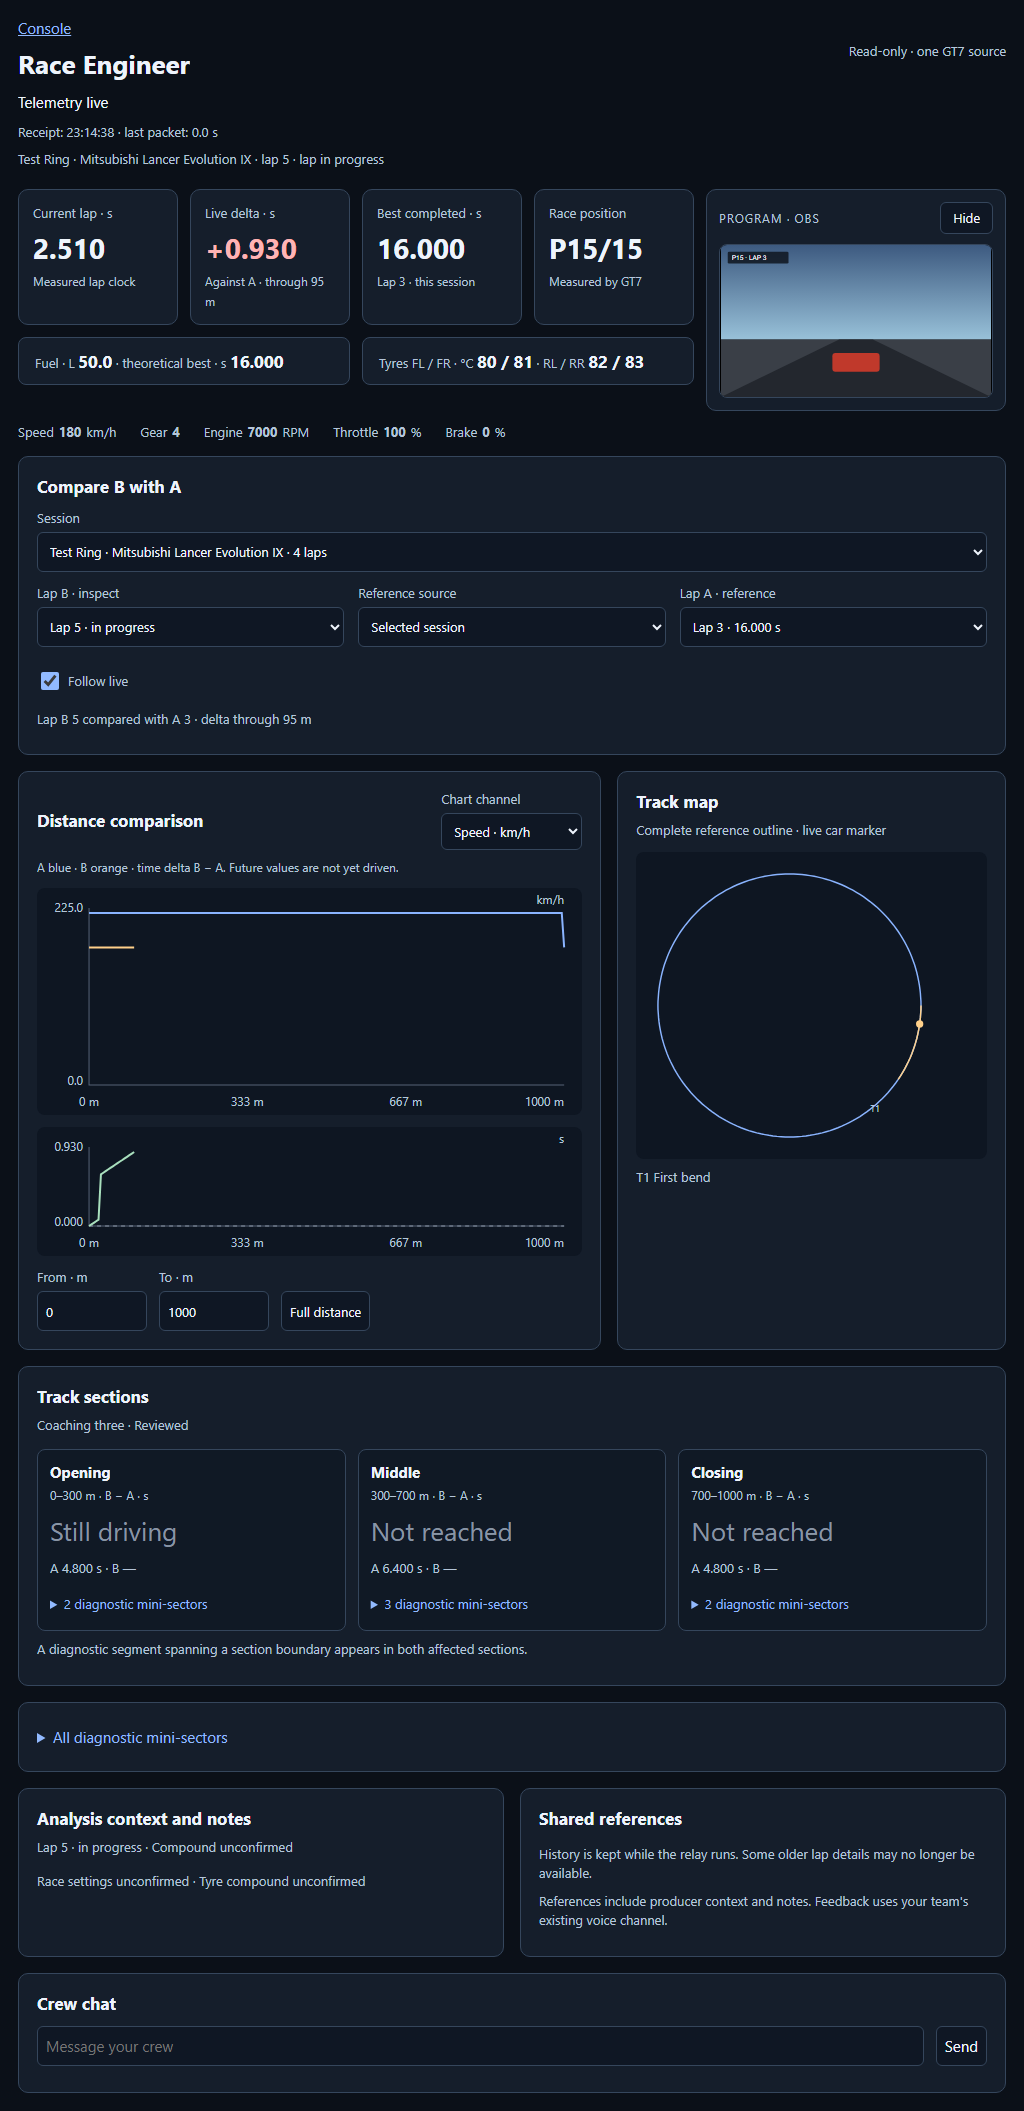
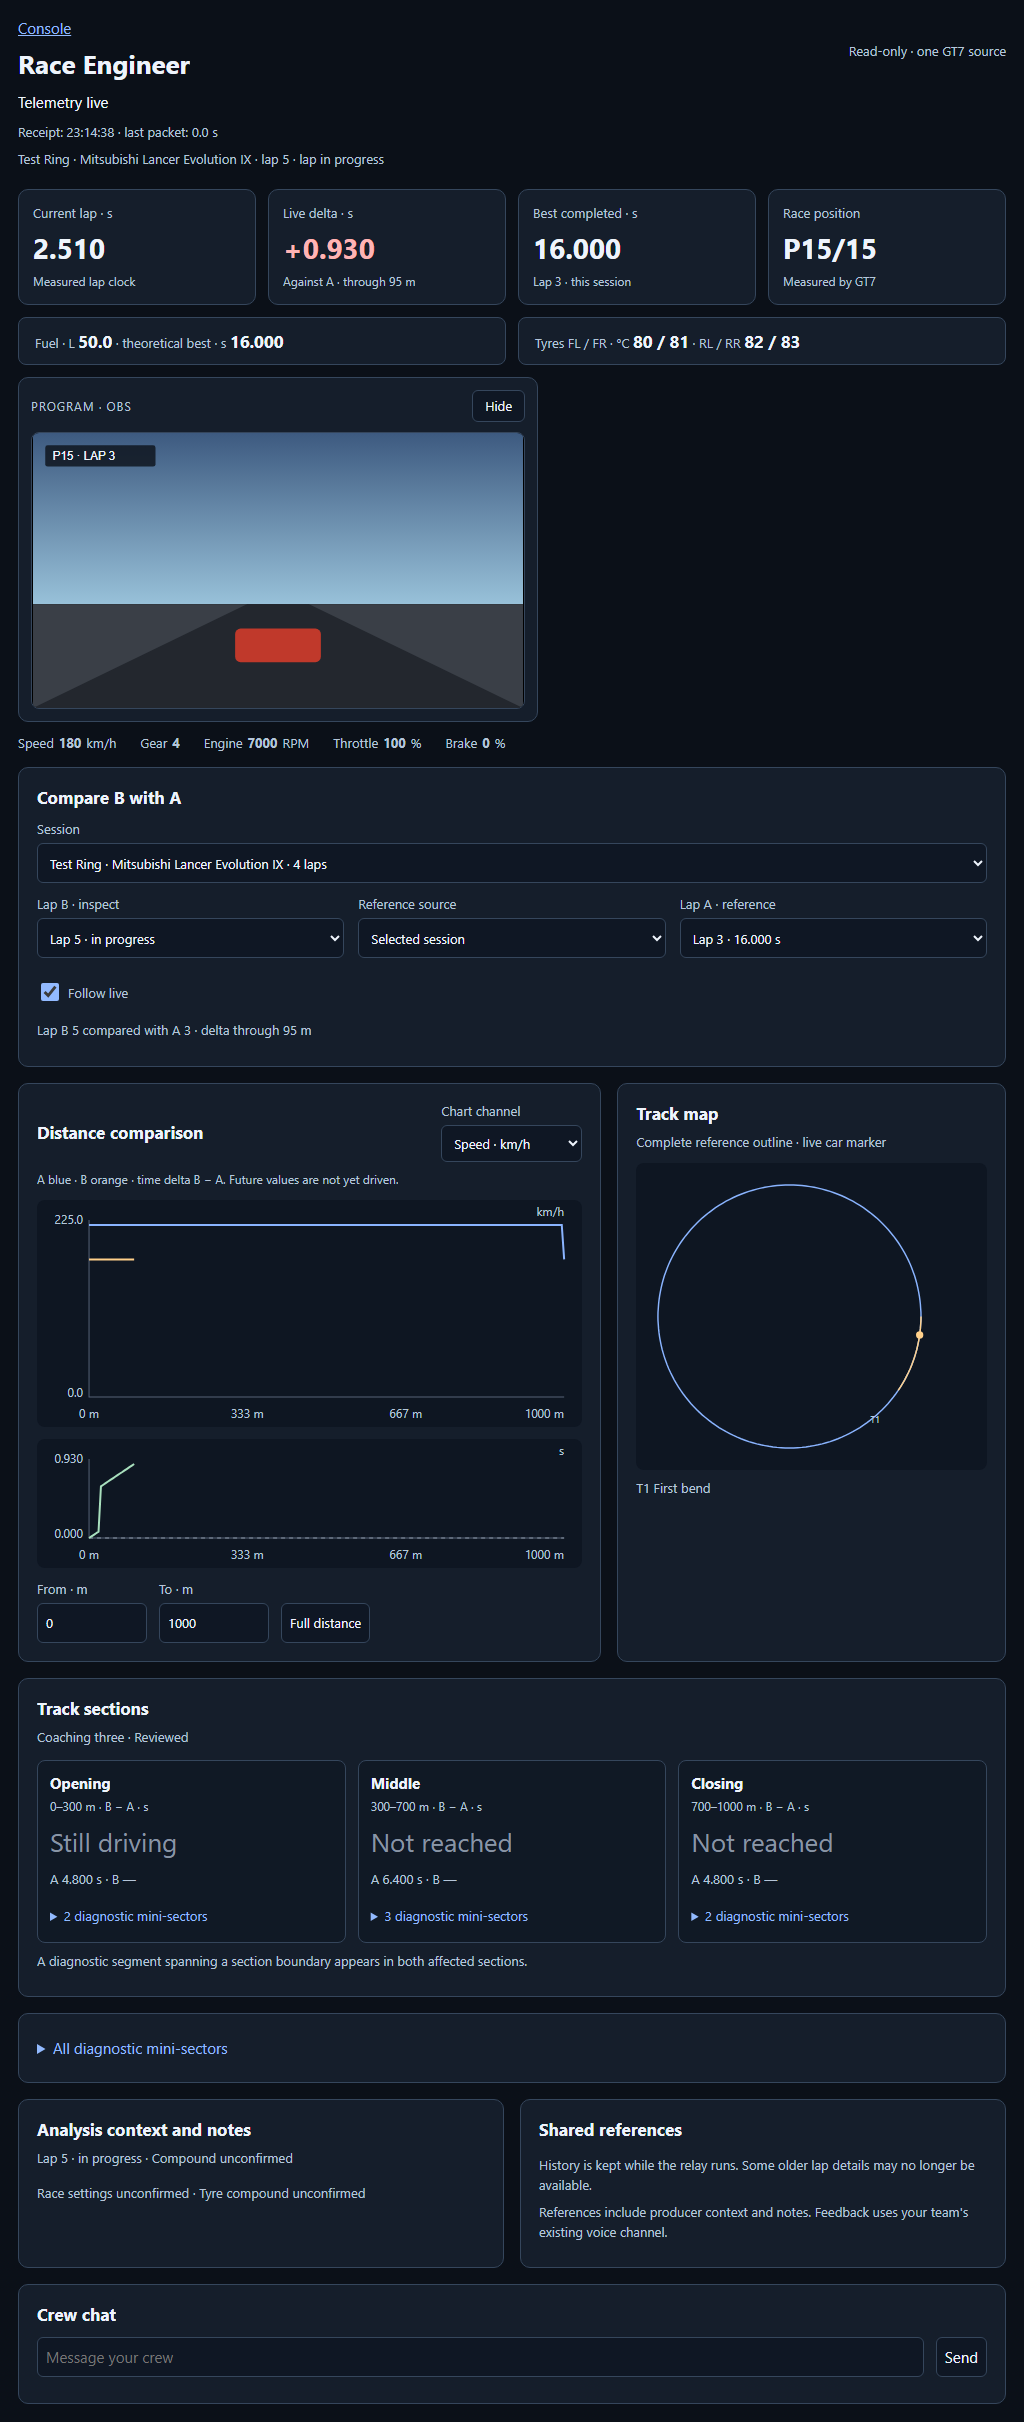
fix(console): stack the Engineer program still below the instruments under 1100 px
Beside the headline at 1024 px the four tiles shrank to ~160 px, and with
the Linux runner's font metrics a label wrapped and broke the one-row
headline. Narrower screens now stack the still below, width-capped.

diff --git a/src/console/race-engineer.html b/src/console/race-engineer.html
@@ -5,7 +5,7 @@
 @media(max-width:1100px){main{padding:18px}.tile{padding:14px}.tile strong{font-size:28px}.compare{grid-template-columns:1fr 1fr 1fr}.check{grid-column:1/-1}.plots{grid-template-columns:1.5fr 1fr}.plot-head{flex-wrap:wrap}.section{padding:12px}}
 @media(max-width:600px){main{padding:12px}header{align-items:start;flex-wrap:wrap;gap:8px}h1{font-size:23px}.headline{grid-template-columns:1fr 1fr;gap:8px;margin-top:14px}.headline .tile>span{min-height:2.4em;line-height:1.2}.tile strong{font-size:28px}.tile{padding:12px}.support{grid-template-columns:1fr;gap:8px}.inputs{gap:12px;font-size:12px}.card{padding:12px}.compare{grid-template-columns:1fr;gap:10px}.check{grid-column:auto}.plots,.context{grid-template-columns:1fr}.section-row{grid-template-columns:1fr}.plot-head{flex-wrap:nowrap}.plot-head select{max-width:135px}.section details{margin-top:8px}summary{padding:14px 0;min-height:44px}.check{min-height:44px}.zoom label{width:82px}.zoom{gap:8px}.zoom button{flex:1;padding:6px}.chat{flex-wrap:wrap}.chat input{width:100%}}
 
-[hidden]{display:none!important}.dim{opacity:.6}.value strong{font-variant-numeric:tabular-nums}.not-driven{color:#8995a5;font-weight:400}.support strong{font-size:17px}.scroll{overflow-x:auto}.source-row{margin:12px 0}.source-row select{width:100%}#notice:empty,#new-laps:empty,#larger-sectors:empty{display:none}.live-grid{display:grid;grid-template-columns:minmax(0,1fr) minmax(280px,380px);gap:12px;margin-top:20px;align-items:start}.live-grid:has(.program-card.off){grid-template-columns:minmax(0,1fr) auto}.live-grid .headline{margin-top:0}.program-card{padding:12px}.program-head{display:flex;justify-content:space-between;align-items:center;gap:10px}.tile .program-head span{font-size:12px;letter-spacing:.08em;text-transform:uppercase}.program-head button{min-height:32px;padding:4px 12px;font-size:13px}.program-frame{position:relative;margin-top:10px;aspect-ratio:16/9;background:#000;border:1px solid var(--edge);border-radius:8px;overflow:hidden;display:flex;align-items:center;justify-content:center}.program-frame img{width:100%;height:100%;object-fit:contain;display:none}.program-frame.loaded img{display:block}.tile .program-frame span{font-size:12px}.program-frame.loaded span{display:none}.program-card.off .program-frame{display:none}@media(max-width:1100px){.live-grid{grid-template-columns:minmax(0,1fr) minmax(220px,300px)}}@media(max-width:600px){.live-grid,.live-grid:has(.program-card.off){grid-template-columns:1fr;margin-top:14px}}#notes{padding-left:18px}#references{padding-left:18px}#chatlog{max-height:240px;overflow-y:auto}.inputs .value{display:flex;gap:5px;align-items:center}.mini-details{margin-top:16px}.section table{font-size:12px}.section header{display:block}.section h3{font-size:15px;margin:0}.section .section-delta{display:block;font-size:26px;margin:10px 0}.section small{font-size:12px;color:var(--muted)}
+[hidden]{display:none!important}.dim{opacity:.6}.value strong{font-variant-numeric:tabular-nums}.not-driven{color:#8995a5;font-weight:400}.support strong{font-size:17px}.scroll{overflow-x:auto}.source-row{margin:12px 0}.source-row select{width:100%}#notice:empty,#new-laps:empty,#larger-sectors:empty{display:none}.live-grid{display:grid;grid-template-columns:minmax(0,1fr) minmax(280px,380px);gap:12px;margin-top:20px;align-items:start}.live-grid:has(.program-card.off){grid-template-columns:minmax(0,1fr) auto}.live-grid .headline{margin-top:0}.program-card{padding:12px}.program-head{display:flex;justify-content:space-between;align-items:center;gap:10px}.tile .program-head span{font-size:12px;letter-spacing:.08em;text-transform:uppercase}.program-head button{min-height:32px;padding:4px 12px;font-size:13px}.program-frame{position:relative;margin-top:10px;aspect-ratio:16/9;background:#000;border:1px solid var(--edge);border-radius:8px;overflow:hidden;display:flex;align-items:center;justify-content:center}.program-frame img{width:100%;height:100%;object-fit:contain;display:none}.program-frame.loaded img{display:block}.tile .program-frame span{font-size:12px}.program-frame.loaded span{display:none}.program-card.off .program-frame{display:none}@media(max-width:1100px){.live-grid,.live-grid:has(.program-card.off){grid-template-columns:minmax(0,1fr)}.program-card{max-width:520px}}@media(max-width:600px){.live-grid{margin-top:14px}.program-card{max-width:none}}#notes{padding-left:18px}#references{padding-left:18px}#chatlog{max-height:240px;overflow-y:auto}.inputs .value{display:flex;gap:5px;align-items:center}.mini-details{margin-top:16px}.section table{font-size:12px}.section header{display:block}.section h3{font-size:15px;margin:0}.section .section-delta{display:block;font-size:26px;margin:10px 0}.section small{font-size:12px;color:var(--muted)}
 </style><script>window.RC_API_BASE="__RC_API_BASE__";window.RC_API=p=>(window.RC_API_BASE||'')+p;if(location.search)history.replaceState({},'',location.pathname);</script></head><body><main>
 <header><div><a href="/console">Console</a><h1>Race Engineer</h1></div><span class="sub">Read-only · one GT7 source</span></header>
 <p id="status" role="status">Checking access…</p><p id="receipt" class="sub">Waiting for measured telemetry</p><p id="notice" role="status"></p>

diff --git a/tools/e2e-engineer-layout.py b/tools/e2e-engineer-layout.py
@@ -71,6 +71,10 @@ async def main():
                     if width==390:
                         await page.locator('#best').evaluate('(el)=>{el.previousElementSibling.replaceChildren(document.createTextNode("Best"),document.createElement("br"),document.createTextNode("completed · s"));}')
                     positions=await page.evaluate('() => ["lap-time","delta","best","race-position"].map(id=>{const r=document.getElementById(id).getBoundingClientRect();return {x:r.x,y:r.y};})')
+                    # The program still sits beside the headline only where four tiles keep
+                    # their width; narrower, it stacks below so the labels never wrap.
+                    program=await page.evaluate('() => {const p=document.getElementById("program-card").getBoundingClientRect(),h=document.getElementById("instruments").getBoundingClientRect();return {beside:p.left>=h.right,below:p.top>=h.bottom};}')
+                    assert program['beside'] if width>1100 else program['below'], f'{width}: program still placement {program}'
                     if width>600:
                         assert max(p['y'] for p in positions)-min(p['y'] for p in positions)<2, 'headline metrics were not one row'
                         assert all(a['x']<b['x'] for a,b in zip(positions,positions[1:],strict=False)), 'headline metric order differs from the approved draft'

diff --git a/src/docs/wiki/Race-Engineer.md b/src/docs/wiki/Race-Engineer.md
@@ -29,7 +29,7 @@ the distance the delta covers, the lap time difference, or why none is shown yet
 The delta tile names the distance it covers, the best tile names its lap. A loss
 carries a **+** sign, so gain and loss do not depend on color.
 
-The **Program · OBS** tile beside the live values shows a still of the running OBS
+The **Program · OBS** tile beside the live values (below them on narrower screens) shows a still of the running OBS
 program, refreshed about every 1.5 s, the same still Race Control shows. **Hide**
 folds it to a small bar and the browser remembers the choice. The still is only
 fetched while the tile is open and the tab is visible, and it stops with the access.
